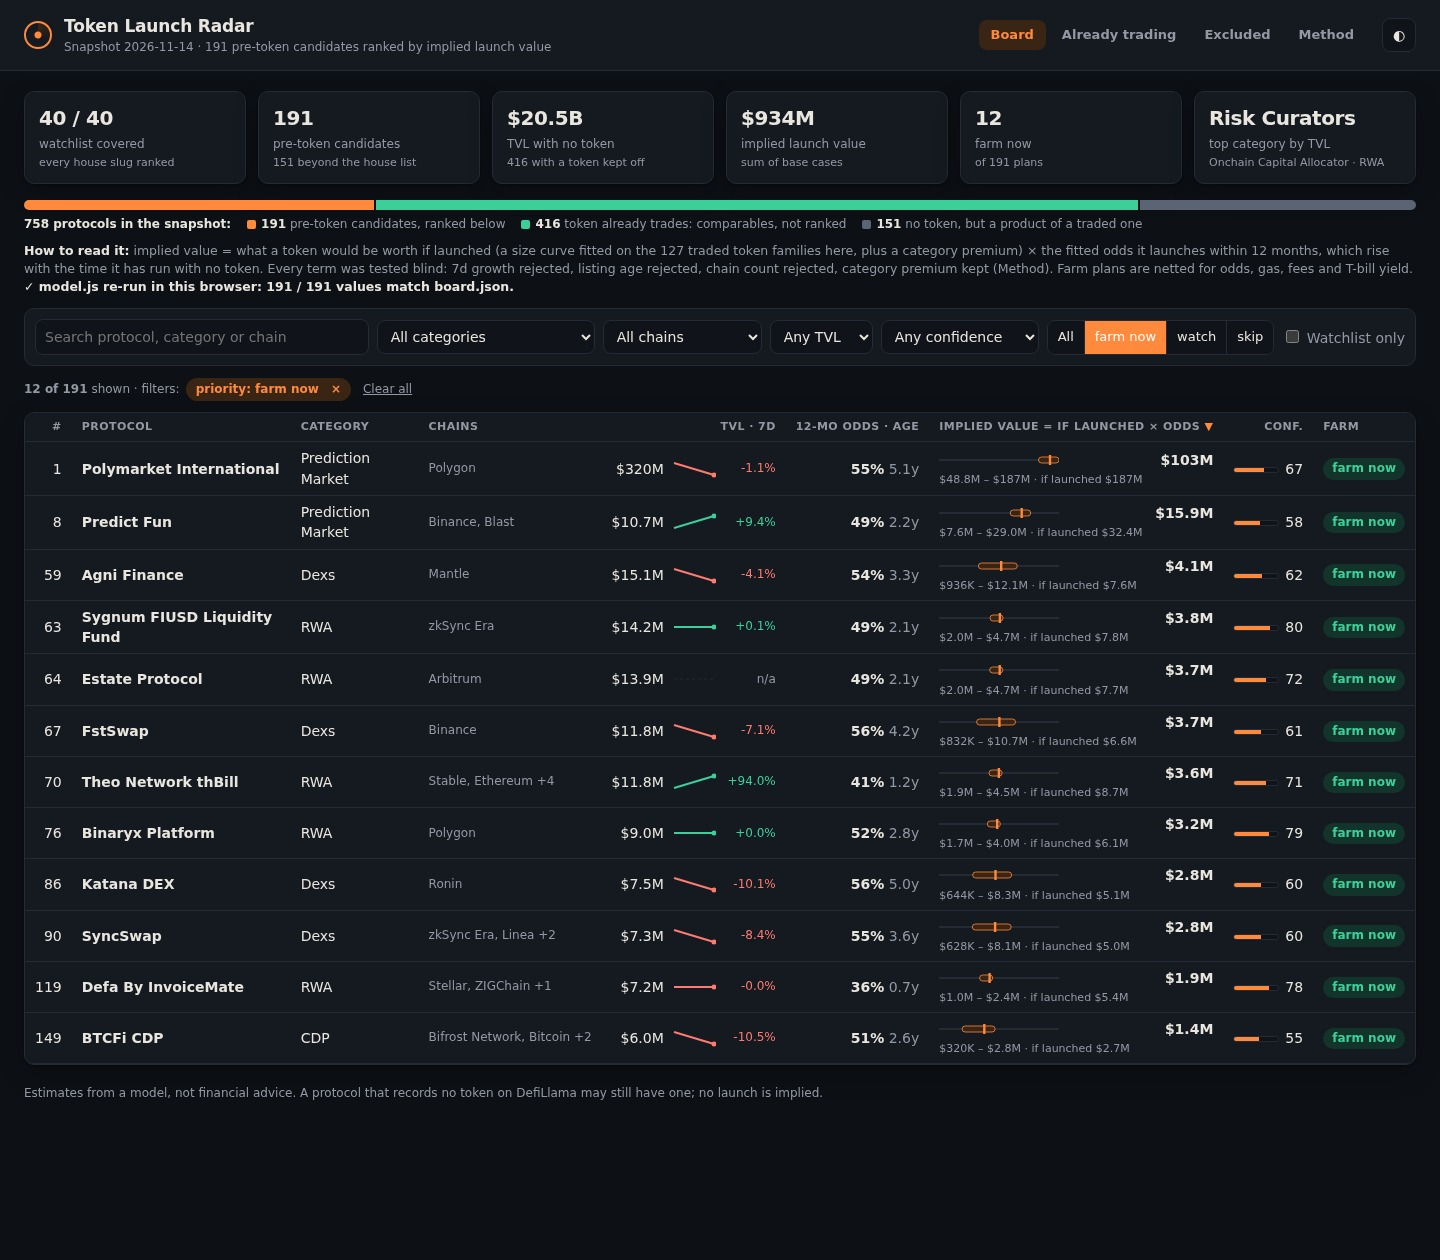
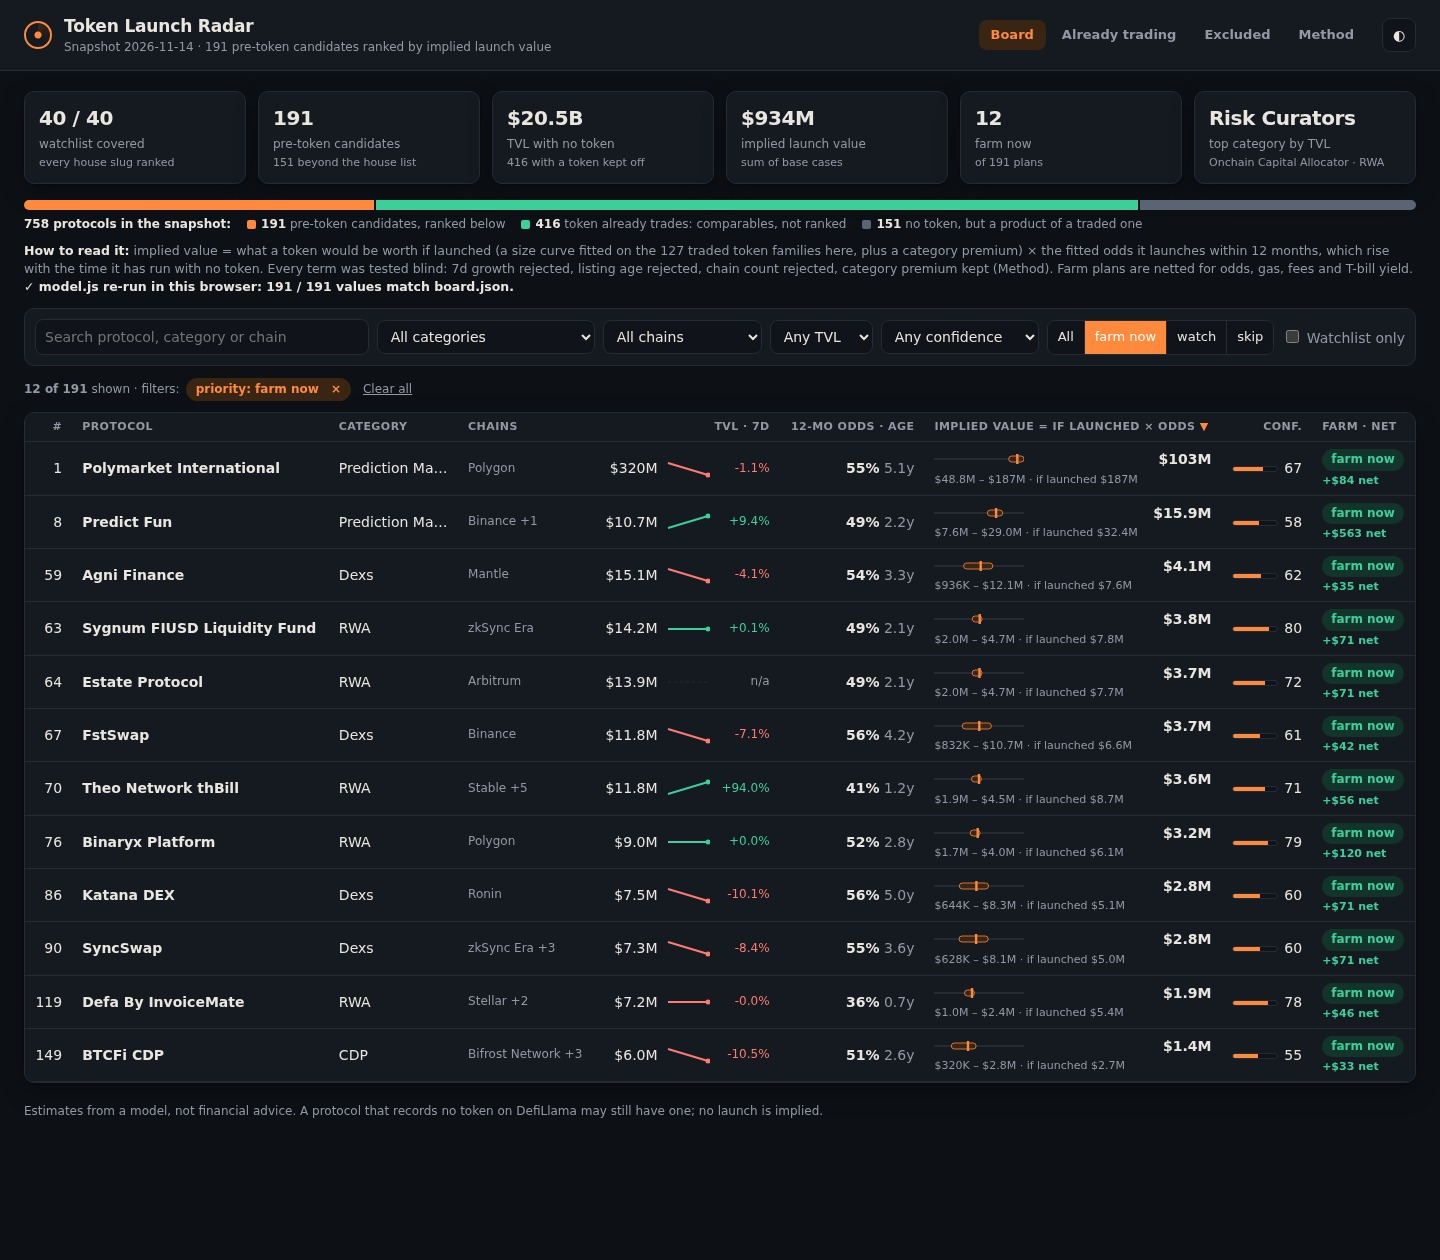
Board shows each farm verdict with its net dollars; full-width detail with the value chain; denser rows
Claude-Session: https://claude.ai/code/session_01Bsb1nHQGG3fWFxNRjMfEoB

diff --git a/dashboard/app.js b/dashboard/app.js
@@ -88,7 +88,7 @@
   }
   function lx(v, w) { return (Math.log10(v) - Math.log10(lo)) / (Math.log10(hi) - Math.log10(lo)) * w; }
   function rangeBar(r) {
-    var w = 120, a = lx(r.lo, w), b = lx(r.hi, w), m = lx(r.b, w);
+    var w = 90, a = lx(r.lo, w), b = lx(r.hi, w), m = lx(r.b, w);
     return '<svg width="' + w + '" height="10" aria-hidden="true"><rect x="0" y="4" width="' + w + '" height="2" fill="var(--line)"/><rect x="' + a.toFixed(1) + '" y="2" width="' + Math.max(2, b - a).toFixed(1) + '" height="6" rx="3" fill="var(--accent-soft)" stroke="var(--accent)" stroke-width=".8"/><rect x="' + (m - 1).toFixed(1) + '" y="0" width="2.4" height="10" fill="var(--accent)"/></svg>';
   }
 
@@ -133,13 +133,13 @@
     var body = list.map(function (r) {
       return '<tr tabindex="0" data-p="' + esc(r.s) + '"><td class="n">' + r.r + '</td>' +
         '<td><span class="pname">' + esc(r.n) + '</span>' + (r.w ? '<span class="tag w" title="On the house watchlist">WL</span>' : '') + (r.fl.length ? '<span class="tag f" title="' + esc(r.fl.join('; ')) + '">⚑ flag</span>' : '') + '</td>' +
-        '<td class="hide-sm">' + esc(r.c) + '</td>' +
-        '<td class="hide-md chainlist">' + esc(r.ch.slice(0, 2).join(', ')) + (r.ch.length > 2 ? ' +' + (r.ch.length - 2) : '') + '</td>' +
+        '<td class="hide-sm cat" title="' + esc(r.c) + '">' + esc(r.c) + '</td>' +
+        '<td class="hide-md chainlist">' + esc(r.ch[0] || '') + (r.ch.length > 1 ? ' +' + (r.ch.length - 1) : '') + '</td>' +
         '<td class="n"><div class="tvl"><span>' + usd(r.tvl) + '</span>' + trend(r) + '<span class="d7 ' + (r.d7 === null ? 'muted' : r.d7 >= 0 ? 'up' : 'down') + '">' + pct(r.d7) + '</span></div></td>' +
         '<td class="n hide-sm nw"><b>' + Math.round(r.od * 100) + '%</b> <span class="muted">' + (r.age === null ? 'age n/a' : (r.age / 365).toFixed(1) + 'y') + '</span></td>' +
         '<td><div class="range"><span class="hide-sm">' + rangeBar(r) + '</span><b>' + usd(r.b) + '</b><small>' + usd(r.lo) + ' – ' + usd(r.hi) + ' · if launched ' + usd(r.ifl) + '</small></div></td>' +
         '<td class="n hide-sm nw"><span class="meter"><i style="width:' + r.conf + '%"></i></span>' + r.conf + '</td>' +
-        '<td>' + pill(r.pr) + '</td></tr>';
+        '<td class="nw">' + pill(r.pr) + '<small class="net ' + (r.net > 0 ? 'up' : 'down') + '">' + (r.net >= 0 ? '+' : '−') + '$' + Math.abs(r.net) + ' net</small></td></tr>';
     }).join('');
     return kpis() +
       '<p class="howto"><b>How to read it:</b> implied value = what a token would be worth if launched (a size curve fitted on the ' + R.fit.n + ' traded token families here, plus a category premium) × the fitted odds it launches within 12 months, which rise with the time it has run with no token. Every term was tested blind: ' + R.tests.filter(function (t) { return t.name.charAt(0) === '+'; }).map(function (t) { return t.name.slice(2) + (t.mae < R.tests[1].mae ? ' kept' : ' rejected'); }).join(', ') + ' (Method). Farm plans are netted for odds, gas, fees and T-bill yield.' +
@@ -154,7 +154,7 @@
       '<label class="muted"><input type="checkbox" id="w"' + (s.w ? ' checked' : '') + '> Watchlist only</label></form>' +
       '<div class="chips" aria-live="polite"><span class="muted"><b>' + list.length + ' of ' + rows.length + '</b> shown' + (s.w && list.length === R.counts.watchlist ? ' (all ' + R.counts.watchlist + ' watchlist protocols)' : '') + ' · ' + (chips.length ? 'filters:' : 'no filters') + '</span>' + chips.join('') + (chips.length ? '<button type="button" class="clear" data-unset="all">Clear all</button>' : '') + '</div>' +
       '<div class="tablewrap"><table><caption class="sr" hidden>Pre-token protocols ranked by implied launch value</caption><thead><tr>' +
-      th('r', '#', 'n') + th('n', 'Protocol') + th('c', 'Category', 'hide-sm') + th('ch', 'Chains', 'hide-md') + th('tvl', 'TVL · 7d', 'n') + th('od', '12-mo odds · age', 'n hide-sm') + th('b', 'Implied value = if launched × odds') + th('conf', 'Conf.', 'n hide-sm') + th('pr', 'Farm') +
+      th('r', '#', 'n') + th('n', 'Protocol') + th('c', 'Category', 'hide-sm') + th('ch', 'Chains', 'hide-md') + th('tvl', 'TVL · 7d', 'n') + th('od', '12-mo odds · age', 'n hide-sm') + th('b', 'Implied value = if launched × odds') + th('conf', 'Conf.', 'n hide-sm') + th('pr', 'Farm · net') +
       '</tr></thead><tbody>' + (body || '<tr><td colspan="9" class="empty">No protocol matches these filters.</td></tr>') + '</tbody></table></div>';
   }
 
@@ -221,7 +221,7 @@
     try { done = JSON.parse(localStorage.getItem('radar-done-' + r.s) || '{}'); } catch (e) { done = {}; }
     panel.innerHTML =
       '<div class="phead"><div><div class="muted">#' + r.r + ' of ' + rows.length + ' · ' + esc(r.c) + ' · ' + esc(r.ch.slice(0, 4).join(', ')) + (r.ch.length > 4 ? ' +' + (r.ch.length - 4) + ' more' : '') + (r.w ? ' <span class="tag w">house watchlist</span>' : '') + '</div><h2 id="d-title">' + esc(r.n) + '</h2></div><button class="close" type="button" data-close>Close ✕</button></div>' +
-      '<div class="cols"><div><div class="grid2"><div class="card"><h3>Implied value</h3><div class="big">' + usd(r.b) + '</div><div class="muted">' + usd(r.ifl) + ' if launched × ' + Math.round(r.od * 100) + '% odds in 12 months · range ' + usd(r.lo) + ' – ' + usd(r.hi) + '</div><div style="margin-top:8px">' + r.dr.map(function (d) { return '<span class="tag">' + esc(d) + '</span>'; }).join(' ') + '</div></div>' +
+      '<div class="cols"><div><div class="grid2"><div class="card"><h3>Implied value</h3><div class="big">' + usd(r.b) + '</div><div class="chain">' + usd(r.tvl) + ' TVL → <b>' + usd(r.ifl) + '</b> if launched → × <b>' + Math.round(r.od * 100) + '%</b> odds → <b>' + usd(r.b) + '</b></div><div class="muted">range ' + usd(r.lo) + ' – ' + usd(r.hi) + '</div><div style="margin-top:8px">' + r.dr.map(function (d) { return '<span class="tag">' + esc(d) + '</span>'; }).join(' ') + '</div></div>' +
       '<div class="card"><h3>Confidence ' + r.conf + ' / 100 · ' + pill(r.pr) + '</h3><div class="muted" style="font-size:12px">' + r.cp.map(function (p) { return esc(p[0]) + ' <b style="color:var(--ink)">' + (p[1] >= 0 && p[0] !== 'start' ? '+' : '') + p[1] + '</b>'; }).join(' · ') + '</div><p style="margin:8px 0 0">' + esc(r.pw) + '</p></div></div>' +
       '<div class="card"><h3>Valuation: the arithmetic</h3>' + math(r) + '</div>' +
       '<div class="card"><h3>Against the tokenised market</h3>' + scatter(r) + '</div>' +

diff --git a/dashboard/app.css b/dashboard/app.css
@@ -72,7 +72,11 @@ tbody tr { cursor: pointer; }
 tbody tr:hover, tbody tr:focus-visible { background: var(--sunk); outline: none; }
 td.n, th.n { text-align: right; }
 .nw { white-space: nowrap; }
-.pname { font-weight: 650; }
+.pname { font-weight: 650; white-space: nowrap; }
+td.cat { max-width: 128px; white-space: nowrap; overflow: hidden; text-overflow: ellipsis; }
+small.net { display: block; font-size: 11px; margin-top: 2px; font-weight: 600; }
+.chain { font-size: 12px; color: var(--muted); margin: 2px 0 4px; }
+.chain b { color: var(--ink); }
 .tag { display: inline-block; font-size: 10px; font-weight: 700; padding: 1px 6px; border-radius: 4px; margin-left: 6px; vertical-align: 1px; background: var(--sunk); color: var(--muted); border: 1px solid var(--line); }
 .tag.w { background: var(--accent-soft); color: var(--accent); border-color: transparent; }
 .tag.f { color: var(--warn); }
@@ -80,7 +84,7 @@ td.n, th.n { text-align: right; }
 .tvl { display: flex; align-items: center; gap: 8px; justify-content: flex-end; white-space: nowrap; }
 .d7 { font-size: 12px; min-width: 52px; text-align: right; }
 .up { color: var(--pos); } .down { color: var(--neg); }
-.range { display: grid; grid-template-columns: 1fr auto; gap: 2px 8px; align-items: center; min-width: 190px; }
+.range { display: grid; grid-template-columns: 1fr auto; gap: 2px 8px; align-items: center; min-width: 170px; }
 .range b { font-variant-numeric: tabular-nums; }
 .range small { grid-column: 1 / -1; color: var(--muted); font-size: 11px; }
 .meter { display: inline-block; width: 46px; height: 6px; border-radius: 3px; background: var(--sunk); border: 1px solid var(--line); vertical-align: middle; margin-right: 6px; overflow: hidden; }
@@ -103,7 +107,7 @@ svg text { fill: var(--muted); font: 10px var(--sans); }
 .cols > div, .grid2 > *, .card { min-width: 0; }
 .card { overflow-x: auto; }
 @media (min-width: 1200px) { .cols { grid-template-columns: 1.1fr 1fr; align-items: start; } }
-.panel { position: absolute; top: 0; right: 0; bottom: 0; width: min(1180px, 100%); background: var(--bg); overflow: auto; padding: 22px 24px 40px; box-shadow: var(--shadow); outline: none; }
+.panel { position: absolute; top: 0; right: 0; bottom: 0; width: min(1440px, 100%); background: var(--bg); overflow: auto; padding: 22px 24px 40px; box-shadow: var(--shadow); outline: none; }
 .panel h2 { margin: 0; font-size: 22px; letter-spacing: -0.02em; }
 .panel h3 { font-size: 12px; text-transform: uppercase; letter-spacing: 0.05em; color: var(--muted); margin: 0 0 8px; }
 .phead { display: flex; justify-content: space-between; gap: 12px; align-items: flex-start; margin-bottom: 14px; }

diff --git a/dashboard/model.js b/dashboard/model.js
@@ -79,7 +79,7 @@
   function quantile(s, q) { if (!s.length) return 0; var at = (s.length - 1) * q, lo = Math.floor(at), hi = Math.ceil(at); return s[lo] + (s[hi] - s[lo]) * (at - lo); }
   function med(v) { return quantile(v.slice().sort(function (a, b) { return a - b; }), 0.5); }
   function group(v) { var s = v.slice().sort(function (a, b) { return a - b; }); return { n: s.length, median: quantile(s, 0.5), q25: quantile(s, 0.25), q75: quantile(s, 0.75) }; }
-  /** Least squares of y on [1, ...feats] by the normal equations (Gaussian elimination, partial pivoting). */
+  /** Least squares of y on [1, ...feats]: normal equations, Gaussian elimination. */
   function lsq(rows, feats) {
     var k = feats.length + 1, A = [], b = [], i, j, r;
     for (i = 0; i < k; i++) { A.push([]); b.push(0); for (j = 0; j < k; j++) A[i].push(0); }
@@ -93,7 +93,7 @@
     return w;
   }
   function predict(w, feats, f) { return feats.reduce(function (t, n, q) { return t + w[q + 1] * f[n]; }, w[0]); }
-  /** Category premium of family i from the others' residuals: the category's median shrunk to its sector's, the sector's to zero. */
+  /** Category premium from the other families' residuals: category median shrunk to sector's, sector's to 0. */
   function premium(rows, resid, cat, skip) {
     var sec = [], own = [];
     rows.forEach(function (r, j) { if (j === skip) return; if (sectorOf(r.category) === sectorOf(cat)) sec.push(resid[j]); if (r.category === cat) own.push(resid[j]); });
@@ -189,10 +189,8 @@
       spread: { q25: r3(cat.q25 - cat.median), q75: r3(cat.q75 - cat.median) } };
   }
 
-  /* ---------- 6. farm economics: is a position worth its costs? ----------
-     slice = users' share x value-if-launched x position / TVL;  expected = slice x odds of a launch within 12
-     months (points earned while held still count when the token comes after the hold);  net = expected - gas
-     and fees - the T-bill yield the position gives up while it is held. */
+  /* ---------- 6. farm economics: net = users' share x value if launched x position / TVL x 12-month odds
+     (points earned while held count if the token comes later) - gas - fees - T-bill yield while held ---------- */
   var USER_SHARE = 0.07, TBILL = 0.04;
   function farm(m, p, v, flagCount, position, weeks, costs) {
     var h = weeks / 52, ageUsed = v.age === null ? 2 : v.age / 365;
